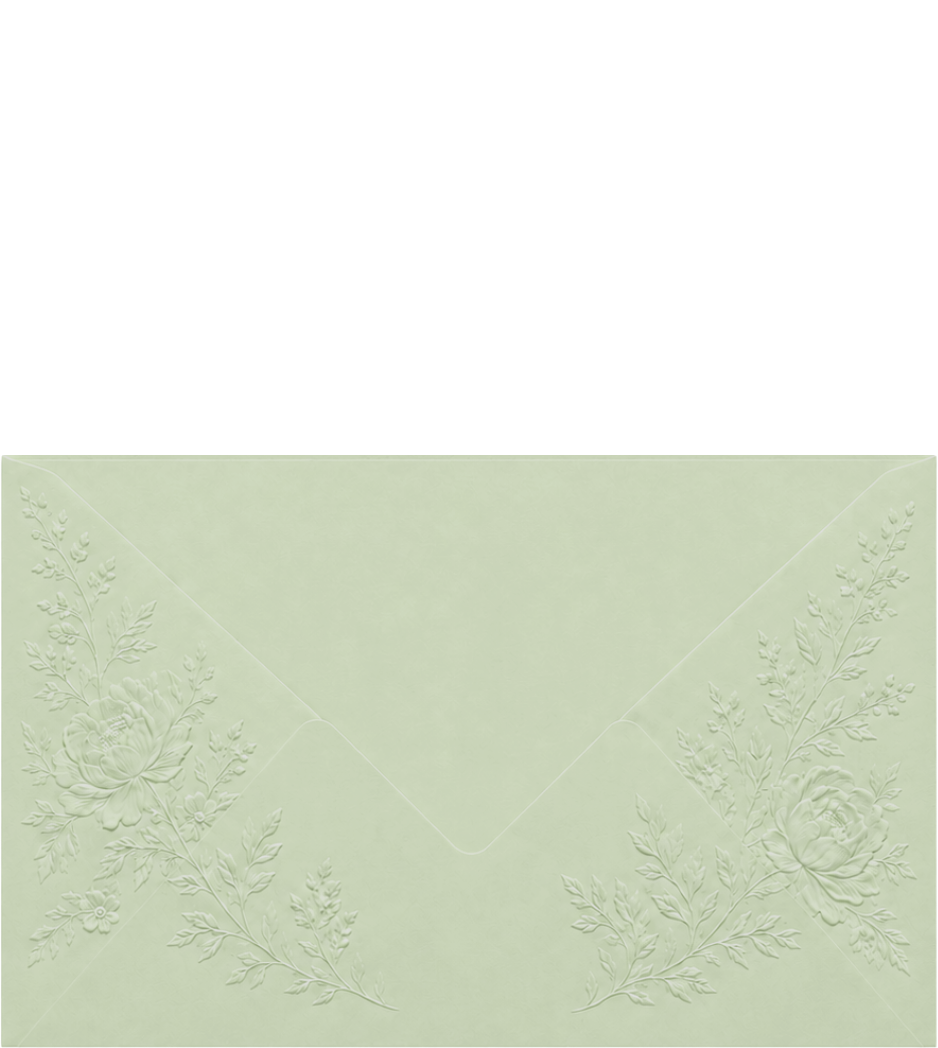
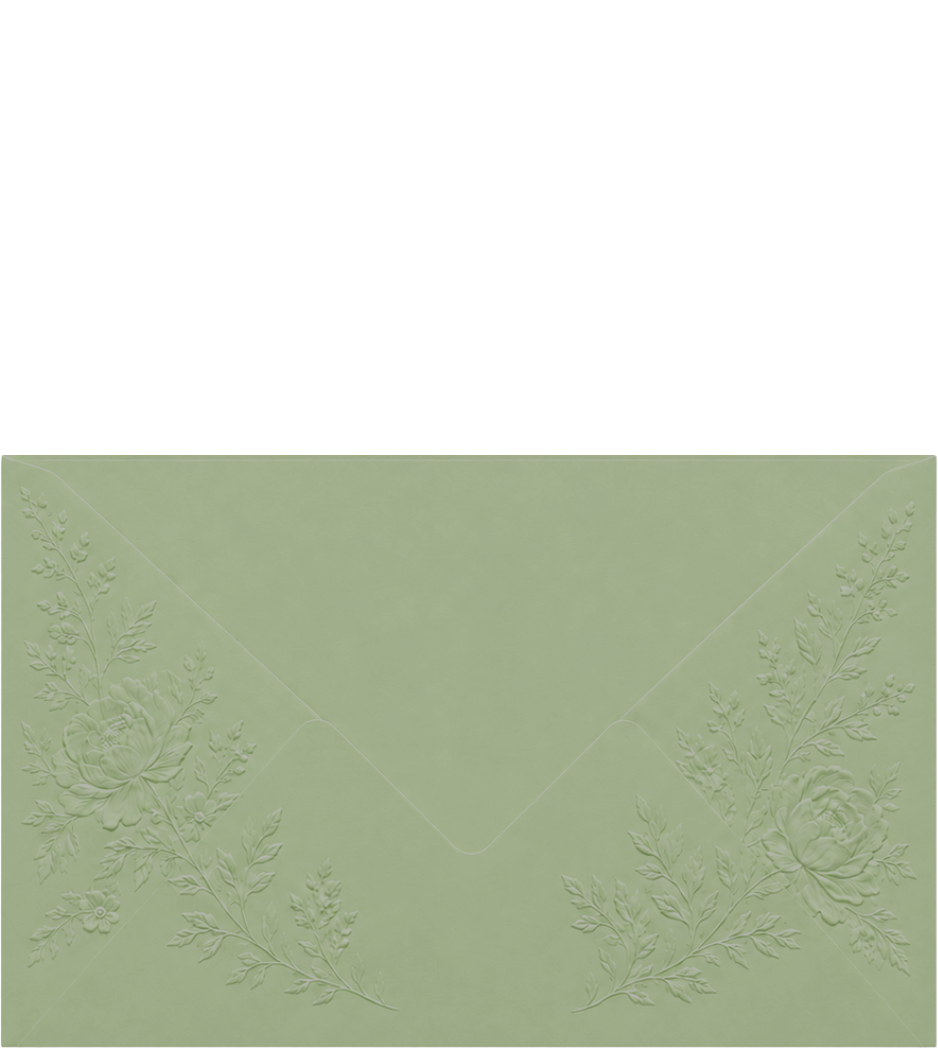
Darken the envelope to a mid sage
Re-run the recolour from the blush originals rather than on top of the
first pass, so the transform doesn't compound: saturation x0.95 and value
x0.72 of the source, landing at ~#a0ae8b — essentially the palette's
--sage-400 rather than the pale --sage-200 of the first attempt. The
embossed florals are untouched, as before.

Bump the envelope URLs to ?v=3.

One knock-on: on phones the envelope covers the whole screen, so "tap to
open" now sits on a mid-tone green rather than a pale one, and the sage
text drops to 2.8:1 against it. Switch it to ink there — 4.8:1. White
would have been worse (2.4:1); against a mid tone, darker beats lighter.
Landscape keeps the sage, since the hint sits below the envelope on cream.

diff --git a/css/save-the-date.css b/css/save-the-date.css
@@ -204,16 +204,16 @@ body.is-ready .petals { opacity: 1; }
    move it up to .stage, which owns the perspective. */
 .env__back  {
   z-index: 1;
-  background-image: image-set(url(../assets/env-back.webp?v=2)  type("image/webp"), url(../assets/env-back.png?v=2)  type("image/png"));
+  background-image: image-set(url(../assets/env-back.webp?v=3)  type("image/webp"), url(../assets/env-back.png?v=3)  type("image/png"));
   filter: drop-shadow(0 7px 14px rgba(84, 64, 58, 0.26));
 }
-.env__front { z-index: 3; background-image: image-set(url(../assets/env-front.webp?v=2) type("image/webp"), url(../assets/env-front.png?v=2) type("image/png")); }
+.env__front { z-index: 3; background-image: image-set(url(../assets/env-front.webp?v=3) type("image/webp"), url(../assets/env-front.png?v=3) type("image/png")); }
 
 /* The flap is authored in the OPEN (up) position; flipped down about its hinge
    (y≈43.4% of the piece) it covers the pocket = closed. One image, both faces. */
 .env__flap {
   z-index: 4;
-  background-image: image-set(url(../assets/env-flap.webp?v=2) type("image/webp"), url(../assets/env-flap.png?v=2) type("image/png"));
+  background-image: image-set(url(../assets/env-flap.webp?v=3) type("image/webp"), url(../assets/env-flap.png?v=3) type("image/png"));
   transform-origin: 50% 43.4%;
   /* the translateY is identity here, but it keeps the function list the same in
      all three states (closed / open / sliding) so each transition interpolates
@@ -488,6 +488,13 @@ body.is-ready .petals { opacity: 1; }
      get cropped, not the top and bottom — the vertical bias used on desktop
      would do nothing, and centred keeps the clasped hands in the middle. */
   .std__photo-img { object-position: center center; }
+
+  /* The envelope covers the whole screen here, so "tap to open" sits ON it rather
+     than on the pale backdrop. Against the darker sage the sage text falls to
+     2.8:1; ink lands at 4.8:1. (White is worse still, 2.4:1 — the envelope is a
+     mid tone, so darker beats lighter.) Landscape keeps the sage: there the hint
+     sits below the envelope, on the cream. */
+  .opener__hint-text { color: var(--ink); }
 
   /* TYPE STEPS UP. Every size on the card is in cqw, i.e. relative to the card's
      WIDTH — and a phone card is ~390px where a monitor's is ~620px, so the scale

diff --git a/save-the-date.html b/save-the-date.html
@@ -41,7 +41,7 @@
   <!-- Bespoke save-the-date theme (mirrors the locked sage + blush palette).
        The ?v= query is a cache buster — bump it whenever the CSS or JS changes so
        browsers pick the new file up without a hard refresh. -->
-  <link rel="stylesheet" href="css/save-the-date.css?v=33" />
+  <link rel="stylesheet" href="css/save-the-date.css?v=34" />
 
   <!-- No-JS fallback: hide the envelope pieces so the sandwiched letter shows. -->
   <noscript>

diff --git a/README.md b/README.md
@@ -177,7 +177,7 @@ Until then, treat any "submitted" RSVP as **not recorded**.
   cropped to a shared coordinate space and compressed for the web. No third-party
   license applies.
 
-  They were supplied in **blush** and have been **recoloured to sage** (~`#c9d4b9`).
+  They were supplied in **blush** and have been **recoloured to sage** (~`#a0ae8b`).
   The embossing is carried entirely in luminance, so the recolour pins the hue and
   rescales saturation and value, leaving every petal and fern untouched. The blush
   originals are in git history if they're ever wanted back. The envelope URLs carry
